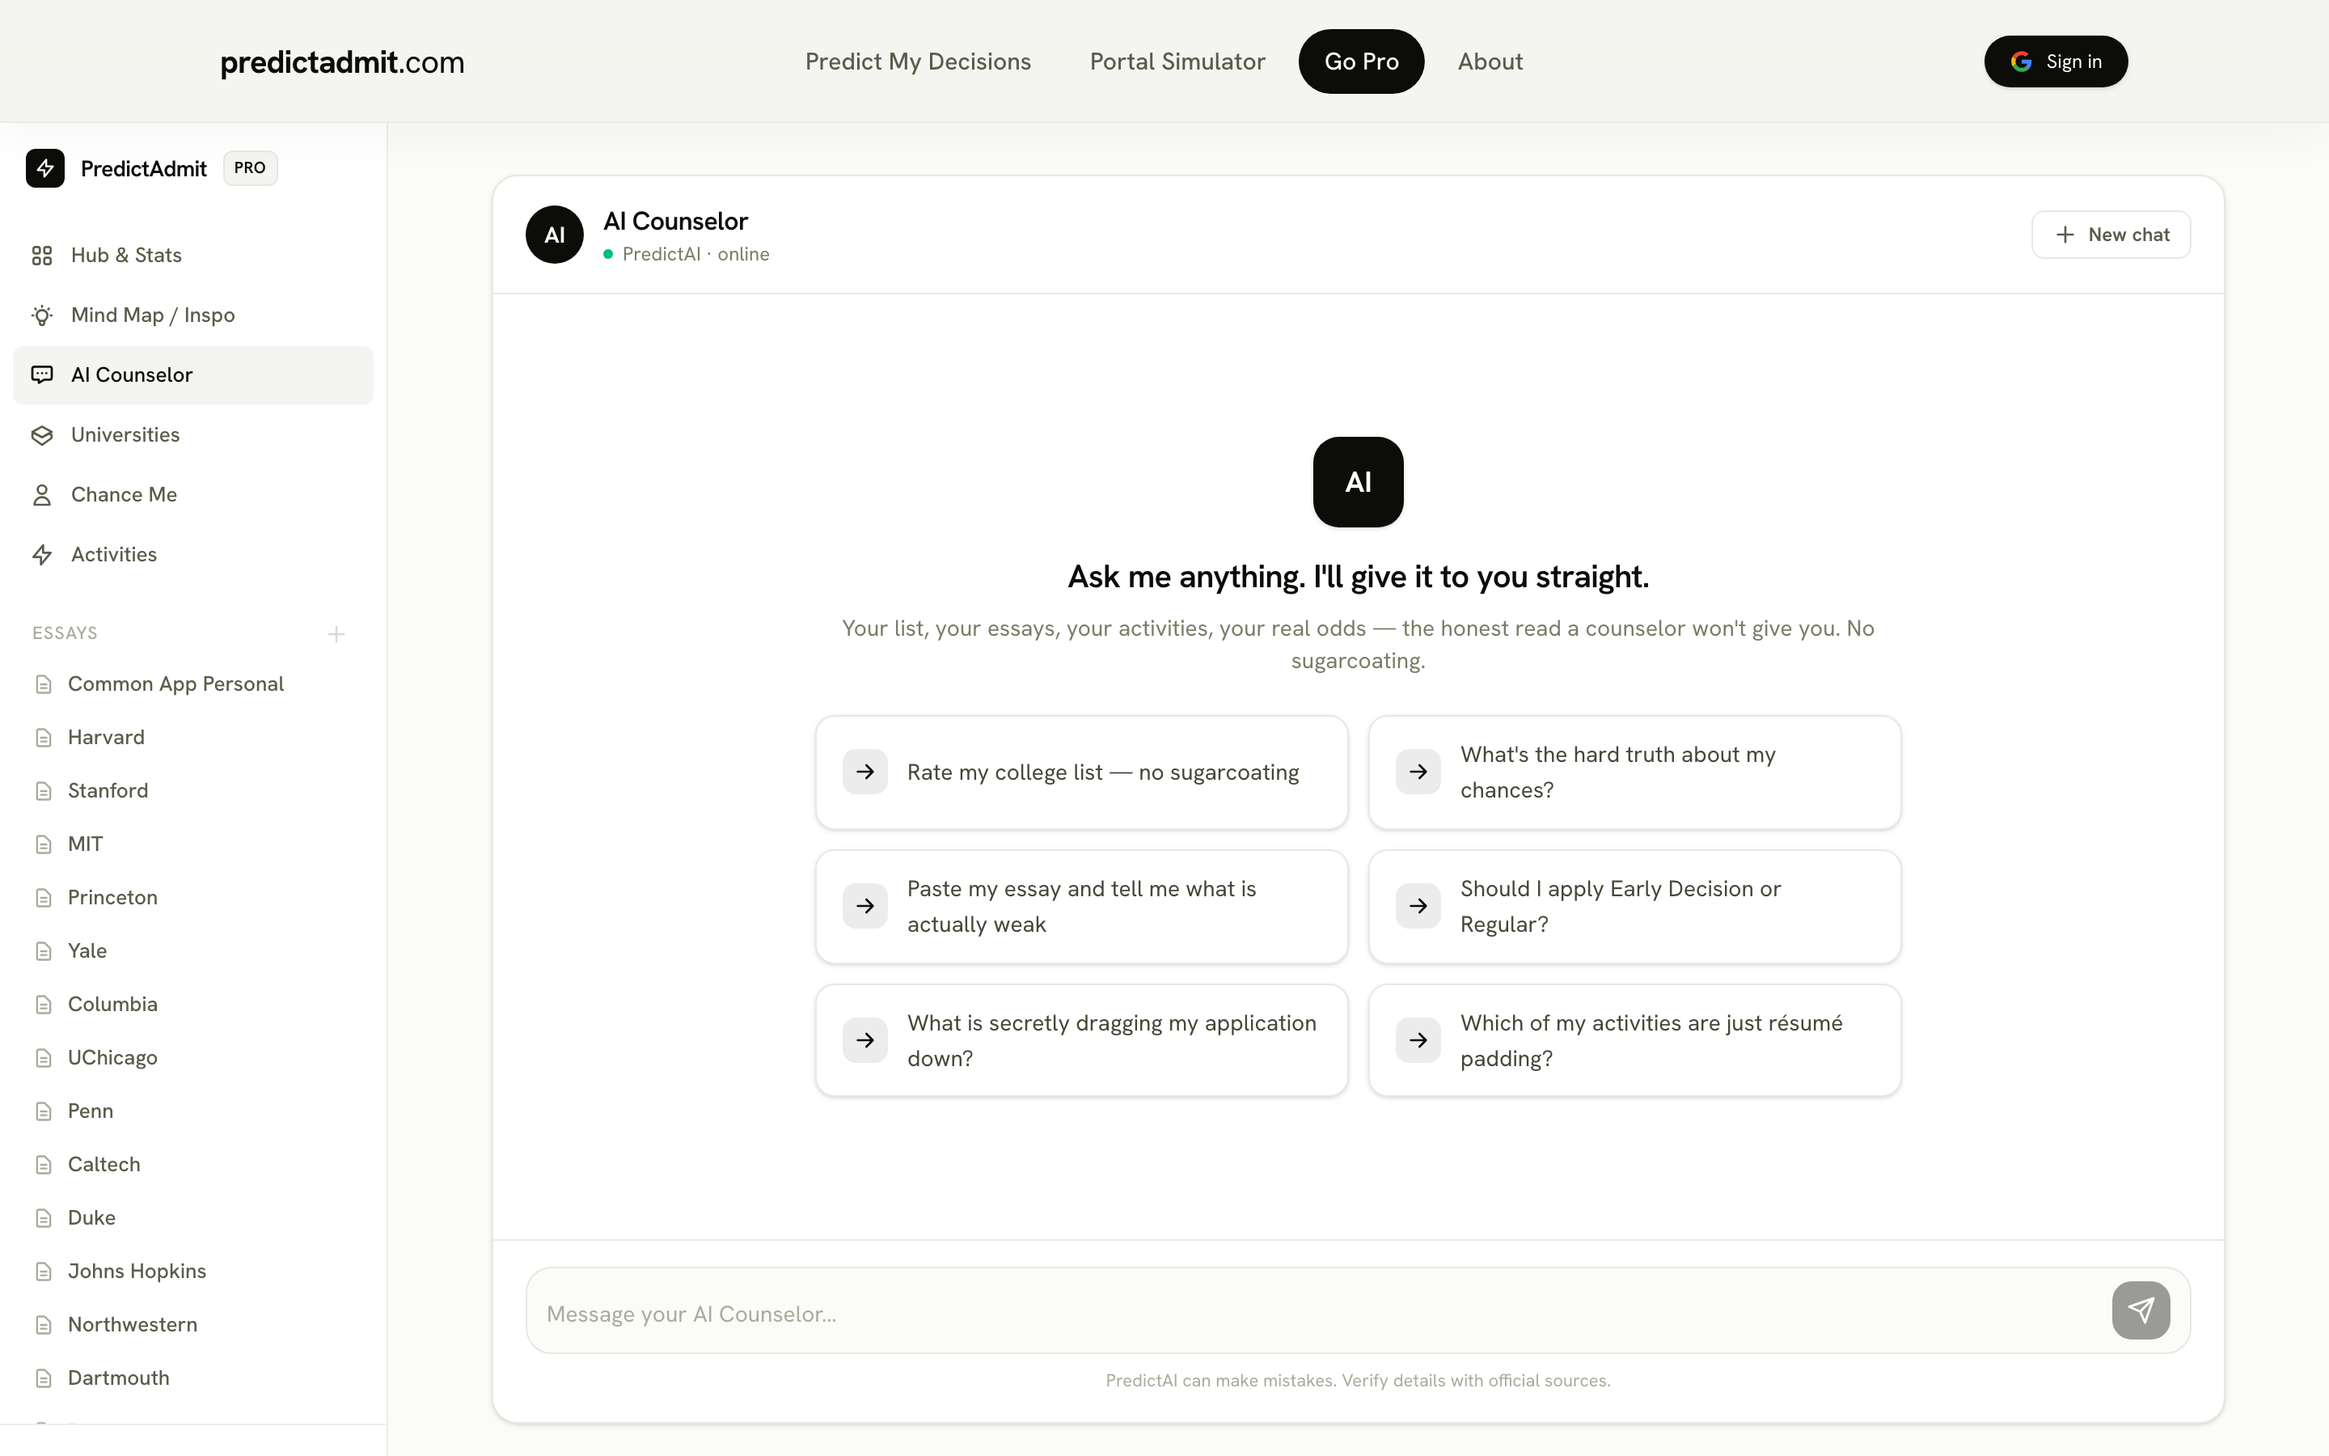
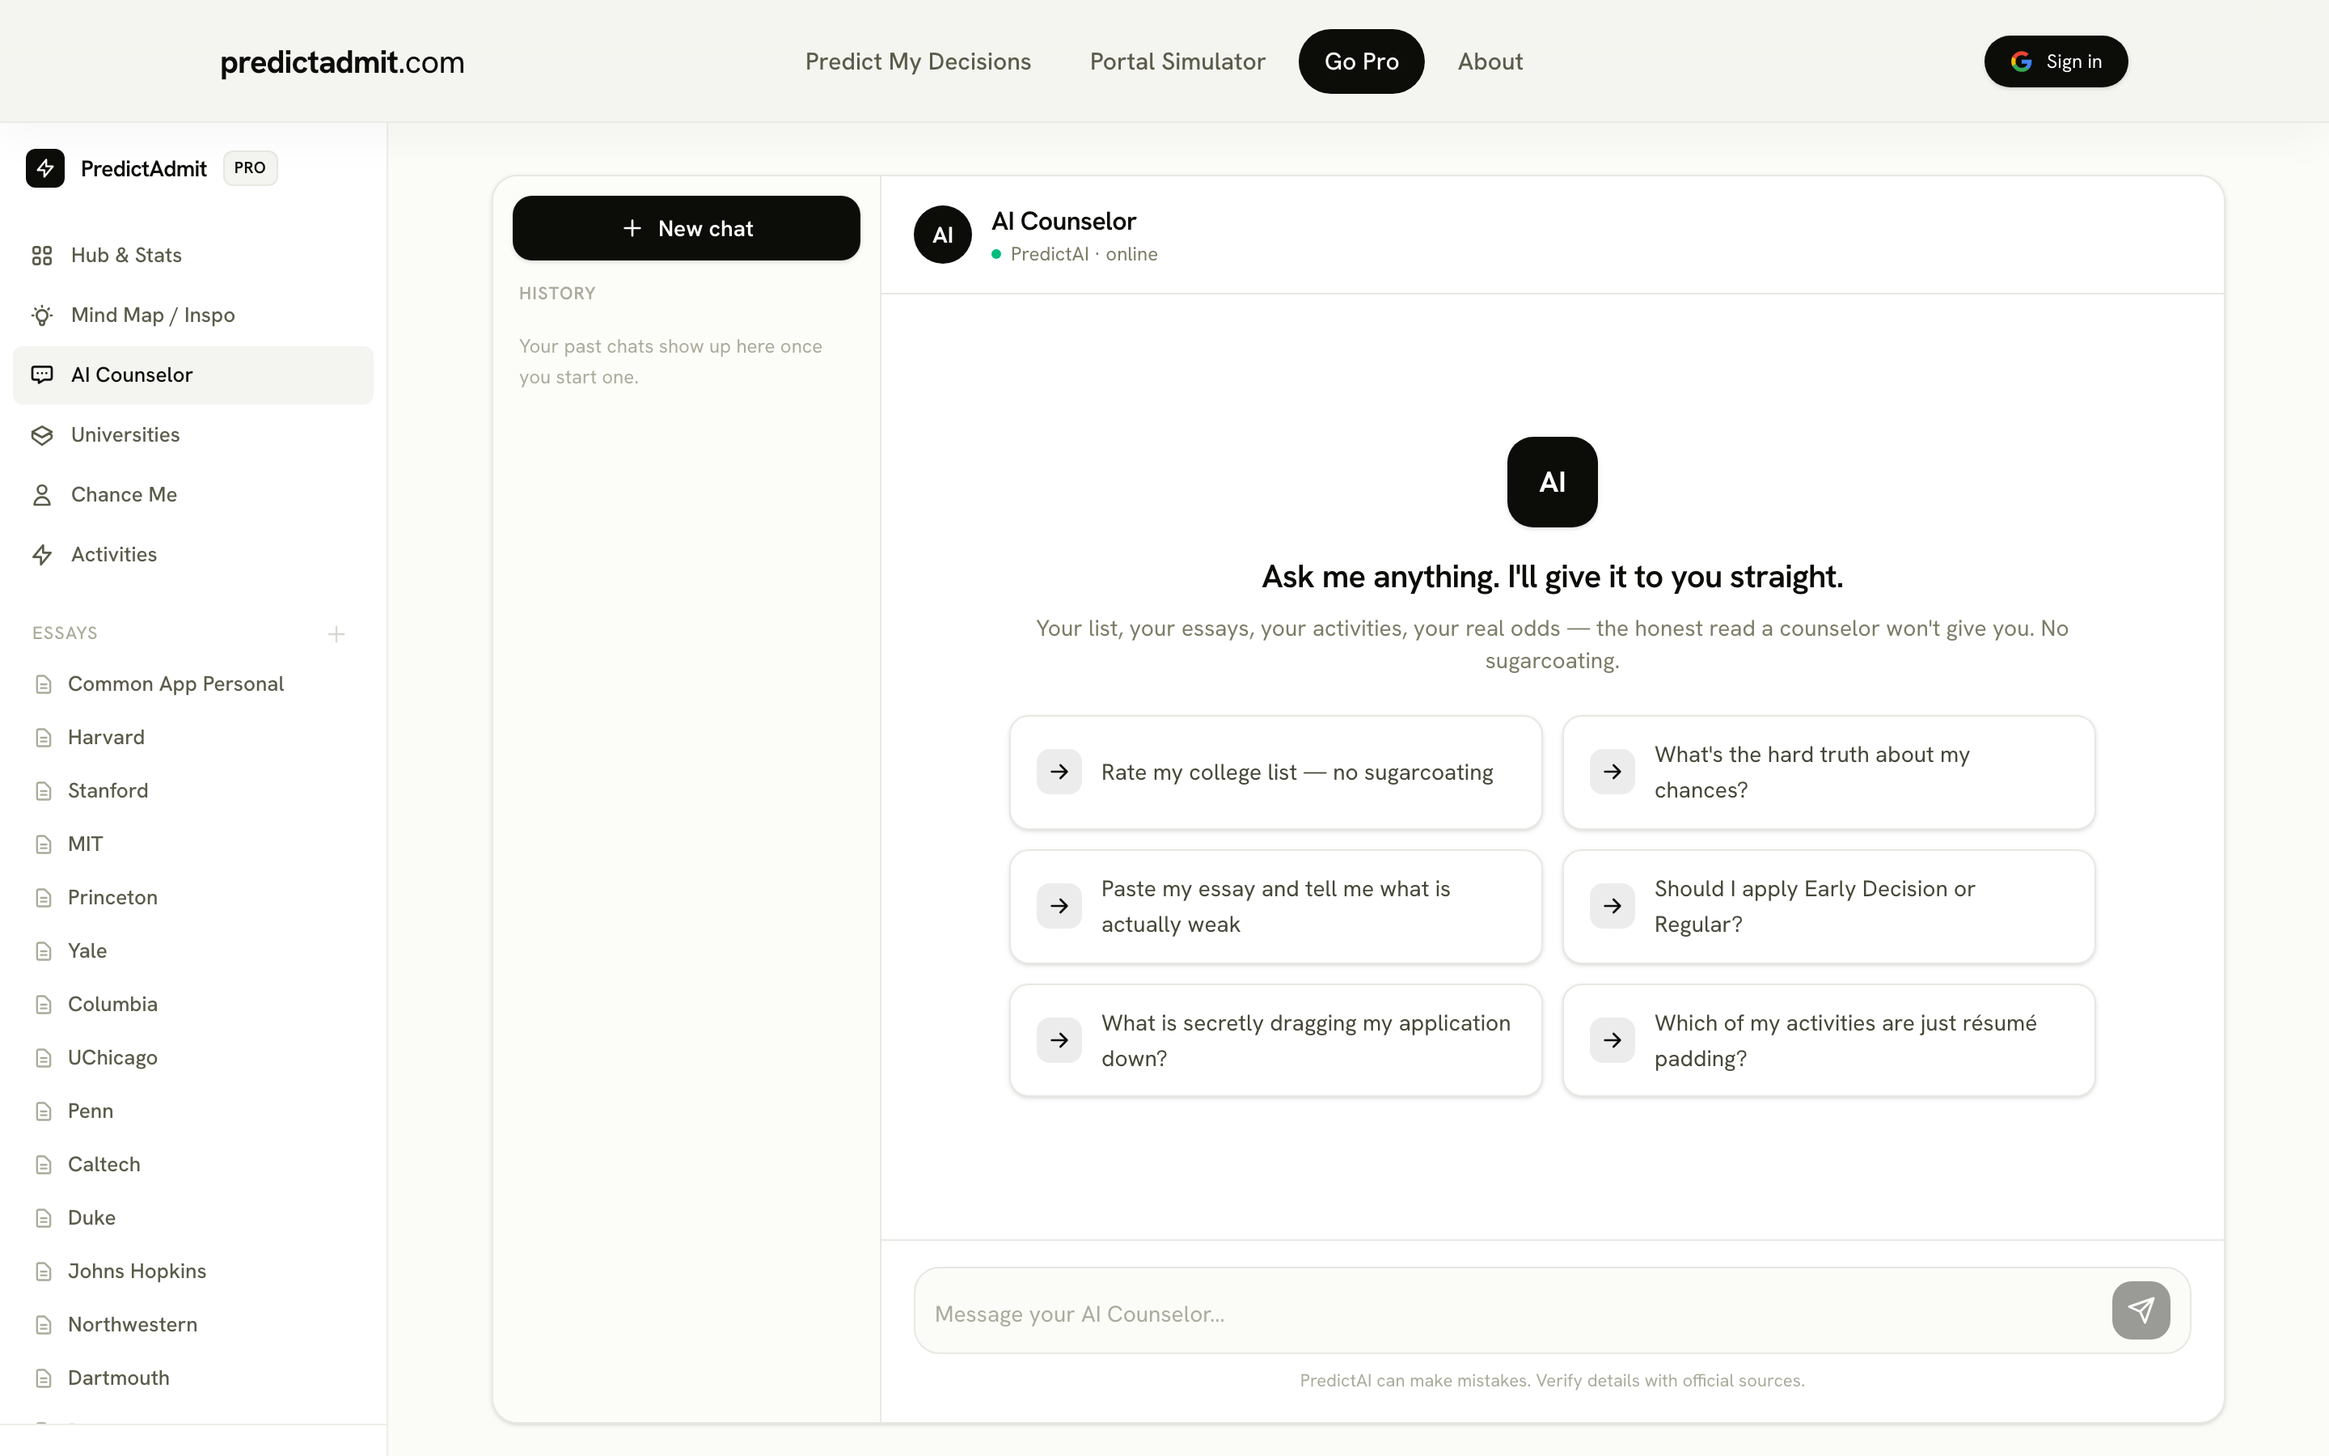
pro: multi-session chat history for the AI counselor + darker essay text
- AICounselor: persist multiple conversations (migrating the legacy single-convo
  store into a session), ChatGPT-style history sidebar on md+ (overlay drawer on
  mobile) with new/load/delete, resume most-recent on load; embedded teaser view
  unchanged (no sidebar)
- pro editor: darken essay textarea + preview text (slate-800 -> slate-900)

diff --git a/src/lib/components/pro/AICounselor.svelte b/src/lib/components/pro/AICounselor.svelte
@@ -13,7 +13,12 @@
 	let { embedded = false, signedIn = true }: { embedded?: boolean; signedIn?: boolean } =
 		$props();
 
+	// Legacy single-conversation key (migrated into a session on first load) and the
+	// new multi-session history store.
 	const STORAGE_KEY = 'predictadmit:pro:counselor';
+	const SESSIONS_KEY = 'predictadmit:pro:counselor:sessions';
+
+	type ChatSession = { id: string; title: string; messages: ChatMessage[]; updatedAt: number };
 
 	const SUGGESTIONS = [
 		'Rate my college list — no sugarcoating',
@@ -25,11 +30,17 @@
 	];
 
 	let messages = $state<ChatMessage[]>([]);
+	let sessions = $state<ChatSession[]>([]);
+	let activeSessionId = $state<string | null>(null);
+	let showHistory = $state(false); // mobile history drawer
 	let draft = $state('');
 	let isThinking = $state(false);
 	let errorMsg = $state('');
 	let needsSignIn = $state(false);
 	let hydrated = $state(false);
+
+	// Most-recent-first list for the history panel.
+	let sortedSessions = $derived([...sessions].sort((a, b) => b.updatedAt - a.updatedAt));
 	// Tappable multiple-choice chips the AI offers each turn (quiz / next steps) —
 	// tapping one sends it, so the student answers without typing.
 	let latestOptions = $state<string[]>([]);
@@ -37,37 +48,99 @@
 	let scrollEl = $state<HTMLDivElement | null>(null);
 	let textareaEl = $state<HTMLTextAreaElement | null>(null);
 
-	// Load persisted conversation on mount.
+	function genId() {
+		try {
+			if (typeof crypto !== 'undefined' && crypto.randomUUID) return crypto.randomUUID();
+		} catch {
+			/* fall through */
+		}
+		return 'c-' + Date.now().toString(36) + '-' + Math.random().toString(36).slice(2, 8);
+	}
+
+	function titleFrom(msgs: ChatMessage[]): string {
+		const first = msgs.find((m) => m.role === 'user');
+		const t = (first?.content || 'New chat').trim().replace(/\s+/g, ' ');
+		return t.length > 42 ? t.slice(0, 42) + '…' : t;
+	}
+
+	function validMsg(m: any): m is ChatMessage {
+		return m && (m.role === 'user' || m.role === 'assistant') && typeof m.content === 'string';
+	}
+
+	function persistSessions() {
+		try {
+			window.localStorage.setItem(SESSIONS_KEY, JSON.stringify($state.snapshot(sessions)));
+		} catch {
+			// ignore storage errors
+		}
+	}
+
+	// Fold the live conversation back into its session (lazily creating one once the
+	// first message exists), then persist. Called explicitly after each turn so there
+	// is no reactive write-loop on the sessions store.
+	function syncActiveSession() {
+		const snap = $state.snapshot(messages) as ChatMessage[];
+		if (!snap.length) return;
+		let id = activeSessionId;
+		if (!id) {
+			id = genId();
+			activeSessionId = id;
+		}
+		const session: ChatSession = { id, title: titleFrom(snap), messages: snap, updatedAt: Date.now() };
+		const idx = sessions.findIndex((s) => s.id === id);
+		if (idx === -1) sessions = [session, ...sessions];
+		else {
+			const copy = [...sessions];
+			copy[idx] = session;
+			sessions = copy;
+		}
+		persistSessions();
+	}
+
+	// Load session history on mount, migrating any legacy single conversation.
 	$effect(() => {
 		if (hydrated) return;
 		try {
-			const raw = window.localStorage.getItem(STORAGE_KEY);
-			if (raw) {
-				const parsed = JSON.parse(raw);
+			const rawSessions = window.localStorage.getItem(SESSIONS_KEY);
+			if (rawSessions) {
+				const parsed = JSON.parse(rawSessions);
 				if (Array.isArray(parsed)) {
-					messages = parsed.filter(
-						(m) =>
-							m &&
-							(m.role === 'user' || m.role === 'assistant') &&
-							typeof m.content === 'string'
-					);
+					sessions = parsed
+						.filter((s) => s && typeof s.id === 'string' && Array.isArray(s.messages))
+						.map((s) => ({
+							id: s.id,
+							title: typeof s.title === 'string' ? s.title : titleFrom(s.messages.filter(validMsg)),
+							messages: s.messages.filter(validMsg),
+							updatedAt: typeof s.updatedAt === 'number' ? s.updatedAt : 0
+						}))
+						.filter((s) => s.messages.length);
 				}
+			}
+			// Migrate the old single-conversation store into a session.
+			if (sessions.length === 0) {
+				const raw = window.localStorage.getItem(STORAGE_KEY);
+				if (raw) {
+					const parsed = JSON.parse(raw);
+					if (Array.isArray(parsed)) {
+						const msgs = parsed.filter(validMsg);
+						if (msgs.length) {
+							sessions = [{ id: genId(), title: titleFrom(msgs), messages: msgs, updatedAt: Date.now() }];
+							persistSessions();
+						}
+					}
+					window.localStorage.removeItem(STORAGE_KEY);
+				}
+			}
+			// Open the most recent session so the user resumes where they left off.
+			if (sessions.length) {
+				const latest = [...sessions].sort((a, b) => b.updatedAt - a.updatedAt)[0];
+				activeSessionId = latest.id;
+				messages = [...latest.messages];
 			}
 		} catch {
 			// ignore corrupt storage
 		}
 		hydrated = true;
-	});
-
-	// Persist conversation whenever it changes (after hydration).
-	$effect(() => {
-		if (!hydrated) return;
-		const snapshot = $state.snapshot(messages);
-		try {
-			window.localStorage.setItem(STORAGE_KEY, JSON.stringify(snapshot));
-		} catch {
-			// ignore storage errors
-		}
 	});
 
 	// Auto-scroll to newest message when the conversation or pending state changes.
@@ -133,6 +206,7 @@
 		latestOptions = [];
 		const outgoing: ChatMessage = { role: 'user', content };
 		messages = [...messages, outgoing];
+		syncActiveSession();
 		draft = '';
 		if (textareaEl) textareaEl.style.height = 'auto';
 		isThinking = true;
@@ -170,6 +244,7 @@
 					data?.error || 'Something went wrong reaching your counselor. Please try again.';
 			} else if (typeof data?.reply === 'string') {
 				messages = [...messages, { role: 'assistant', content: data.reply }];
+				syncActiveSession();
 				latestOptions = Array.isArray(data?.options)
 					? data.options.filter((o: unknown) => typeof o === 'string' && o.trim()).slice(0, 4)
 					: [];
@@ -207,15 +282,39 @@
 	}
 
 	function newChat() {
+		// The prior conversation is already saved to its session on each turn, so a new
+		// chat just starts a fresh (unsaved-until-first-message) thread.
+		activeSessionId = null;
 		messages = [];
 		draft = '';
 		errorMsg = '';
-		try {
-			window.localStorage.removeItem(STORAGE_KEY);
-		} catch {
-			// ignore
-		}
+		latestOptions = [];
+		showHistory = false;
 		requestAnimationFrame(() => textareaEl?.focus());
+	}
+
+	function loadSession(id: string) {
+		const s = sessions.find((x) => x.id === id);
+		if (!s) return;
+		activeSessionId = id;
+		messages = [...s.messages];
+		errorMsg = '';
+		latestOptions = [];
+		showHistory = false;
+		requestAnimationFrame(() => {
+			if (scrollEl) scrollEl.scrollTop = scrollEl.scrollHeight;
+		});
+	}
+
+	function deleteSession(id: string, e: Event) {
+		e.stopPropagation();
+		sessions = sessions.filter((s) => s.id !== id);
+		persistSessions();
+		if (activeSessionId === id) {
+			activeSessionId = null;
+			messages = [];
+			latestOptions = [];
+		}
 	}
 
 	// --- Safe light-markdown rendering ---------------------------------------
@@ -283,10 +382,70 @@
 <div class={embedded ? '' : 'flex-1 min-h-0 overflow-y-auto bg-slate-50'}>
 	<div class={embedded ? '' : 'max-w-6xl mx-auto px-6 md:px-10 py-8'}>
 		<div
-			class="flex {embedded
+			class="relative flex {embedded
 				? 'h-[520px] sm:h-[560px]'
-				: 'h-[calc(100vh-8rem)] min-h-[560px]'} flex-col overflow-hidden rounded-2xl border border-slate-200 bg-white shadow-sm"
+				: 'h-[calc(100vh-8rem)] min-h-[560px]'} overflow-hidden rounded-2xl border border-slate-200 bg-white shadow-sm"
 		>
+			{#if !embedded}
+				<!-- Chat history drawer (persistent on md+, overlay on mobile) -->
+				{#if showHistory}
+					<button
+						type="button"
+						aria-label="Close history"
+						class="absolute inset-0 z-20 bg-slate-900/30 md:hidden"
+						onclick={() => (showHistory = false)}
+					></button>
+				{/if}
+				<aside
+					class="{showHistory
+						? 'flex'
+						: 'hidden'} absolute inset-y-0 left-0 z-30 w-64 flex-col border-r border-slate-200 bg-slate-50/80 md:static md:z-0 md:flex md:w-60"
+				>
+					<div class="p-3">
+						<button
+							type="button"
+							onclick={newChat}
+							class="flex w-full items-center justify-center gap-2 rounded-xl bg-[#0c0c09] px-3 py-2.5 text-sm font-semibold text-white shadow-sm transition hover:bg-[#2b2b22]"
+						>
+							<svg width="16" height="16" viewBox="0 0 24 24" fill="none" stroke="currentColor" stroke-width="2" stroke-linecap="round" stroke-linejoin="round"><path d="M12 5v14M5 12h14" /></svg>
+							New chat
+						</button>
+					</div>
+					<p class="px-4 pb-1.5 text-[11px] font-semibold uppercase tracking-wider text-slate-400">History</p>
+					<div class="flex-1 overflow-y-auto px-2 pb-3">
+						{#if sortedSessions.length === 0}
+							<p class="px-2 py-2 text-xs leading-relaxed text-slate-400">
+								Your past chats show up here once you start one.
+							</p>
+						{:else}
+							{#each sortedSessions as s (s.id)}
+								<div class="group relative">
+									<button
+										type="button"
+										onclick={() => loadSession(s.id)}
+										class="flex w-full items-center gap-2 rounded-lg py-2 pl-2.5 pr-8 text-left text-[13px] font-medium transition {activeSessionId ===
+										s.id
+											? 'bg-white text-slate-900 shadow-sm ring-1 ring-slate-200'
+											: 'text-slate-600 hover:bg-white/70 hover:text-slate-900'}"
+									>
+										<svg class="h-3.5 w-3.5 shrink-0 text-slate-400" viewBox="0 0 24 24" fill="none" stroke="currentColor" stroke-width="2" stroke-linecap="round" stroke-linejoin="round"><path d="M21 15a2 2 0 0 1-2 2H7l-4 4V5a2 2 0 0 1 2-2h14a2 2 0 0 1 2 2z" /></svg>
+										<span class="truncate">{s.title}</span>
+									</button>
+									<button
+										type="button"
+										aria-label="Delete chat"
+										onclick={(e) => deleteSession(s.id, e)}
+										class="absolute right-1.5 top-1/2 -translate-y-1/2 rounded-md p-1 text-slate-300 opacity-0 transition hover:bg-slate-200 hover:text-rose-500 focus:opacity-100 group-hover:opacity-100"
+									>
+										<svg class="h-3.5 w-3.5" viewBox="0 0 24 24" fill="none" stroke="currentColor" stroke-width="2" stroke-linecap="round" stroke-linejoin="round"><path d="M3 6h18M8 6V4a2 2 0 0 1 2-2h4a2 2 0 0 1 2 2v2m2 0v14a2 2 0 0 1-2 2H7a2 2 0 0 1-2-2V6" /></svg>
+									</button>
+								</div>
+							{/each}
+						{/if}
+					</div>
+				</aside>
+			{/if}
+			<div class="flex min-w-0 flex-1 flex-col">
 			<!-- Header -->
 			<header
 				class="flex items-center justify-between gap-3 border-b border-slate-200 px-5 py-4"
@@ -307,25 +466,40 @@
 						</p>
 					</div>
 				</div>
-				<button
-					type="button"
-					onclick={newChat}
-					class="inline-flex items-center gap-1.5 rounded-lg border border-slate-200 px-3 py-1.5 text-xs font-semibold text-slate-600 transition hover:bg-slate-50 hover:text-slate-900"
-				>
-					<svg
-						width="16"
-						height="16"
-						viewBox="0 0 24 24"
-						fill="none"
-						stroke="currentColor"
-						stroke-width="2"
-						stroke-linecap="round"
-						stroke-linejoin="round"
+				<div class="flex items-center gap-2">
+					{#if !embedded}
+						<button
+							type="button"
+							onclick={() => (showHistory = !showHistory)}
+							aria-label="Chat history"
+							class="inline-flex items-center gap-1.5 rounded-lg border border-slate-200 px-3 py-1.5 text-xs font-semibold text-slate-600 transition hover:bg-slate-50 hover:text-slate-900 md:hidden"
+						>
+							<svg width="16" height="16" viewBox="0 0 24 24" fill="none" stroke="currentColor" stroke-width="2" stroke-linecap="round" stroke-linejoin="round"><path d="M12 8v4l3 3M3.05 11a9 9 0 1 1 .5 4" /><path d="M3 4v4h4" /></svg>
+							History
+						</button>
+					{/if}
+					<button
+						type="button"
+						onclick={newChat}
+						class="inline-flex items-center gap-1.5 rounded-lg border border-slate-200 px-3 py-1.5 text-xs font-semibold text-slate-600 transition hover:bg-slate-50 hover:text-slate-900 {embedded
+							? ''
+							: 'md:hidden'}"
 					>
-						<path d="M12 5v14M5 12h14" />
-					</svg>
-					New chat
-				</button>
+						<svg
+							width="16"
+							height="16"
+							viewBox="0 0 24 24"
+							fill="none"
+							stroke="currentColor"
+							stroke-width="2"
+							stroke-linecap="round"
+							stroke-linejoin="round"
+						>
+							<path d="M12 5v14M5 12h14" />
+						</svg>
+						New chat
+					</button>
+				</div>
 			</header>
 
 			<!-- Conversation / empty state -->
@@ -535,6 +709,7 @@
 						{/if}
 					</div>
 				{/if}
+			</div>
 			</div>
 		</div>
 	</div>

diff --git a/src/routes/pro/+page.svelte b/src/routes/pro/+page.svelte
@@ -1908,7 +1908,7 @@
 
 									<!-- Content Area -->
 									<div
-										class="w-full bg-slate-50 text-slate-800 font-serif text-lg leading-loose p-4 md:p-8 rounded-xl border border-slate-100"
+										class="w-full bg-slate-50 text-slate-900 font-serif text-lg leading-loose p-4 md:p-8 rounded-xl border border-slate-100"
 										onclick={(e) => {
 											// @ts-ignore
 											const span = e.target.closest('.highlight-span');
@@ -1938,7 +1938,7 @@
 									<div class="relative group flex-1 flex flex-col">
 										<textarea
 											bind:value={activeFile.content}
-											class="w-full flex-1 bg-white text-slate-800 p-4 md:p-8 rounded-2xl border border-slate-200 focus:border-[#0c0c09] focus:ring-4 focus:ring-blue-500/10 outline-none font-serif text-base md:text-lg leading-loose shadow-sm transition-all resize-none"
+											class="w-full flex-1 bg-white text-slate-900 p-4 md:p-8 rounded-2xl border border-slate-200 focus:border-[#0c0c09] focus:ring-4 focus:ring-blue-500/10 outline-none font-serif text-base md:text-lg leading-loose shadow-sm transition-all resize-none"
 											placeholder="# Prompt\nPaste prompt here...\n\n# Response\nStart writing..."
 											spellcheck="false"
 										></textarea>
